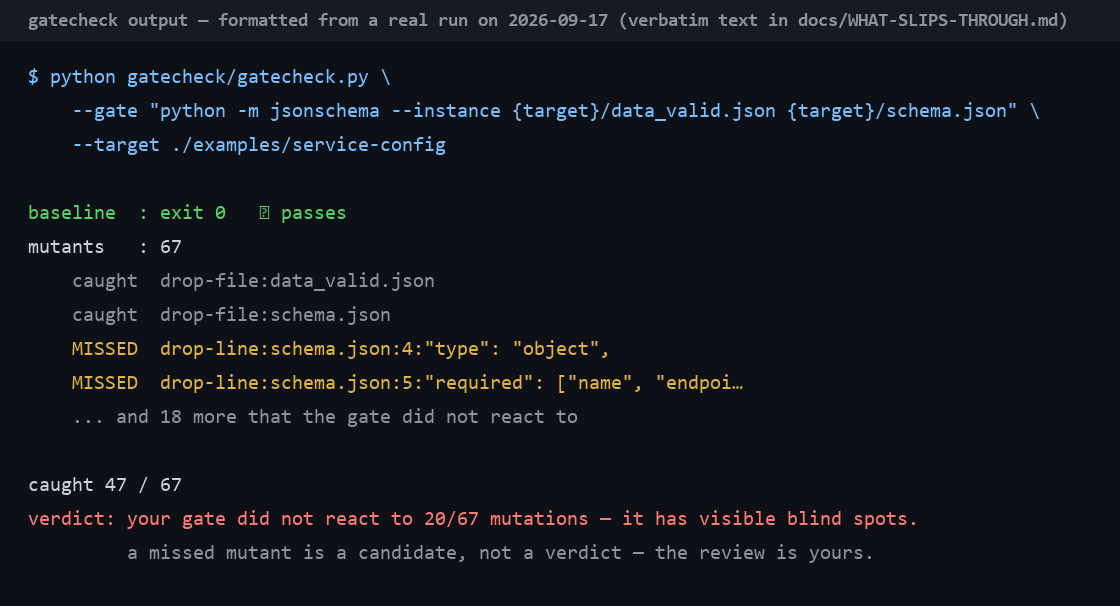
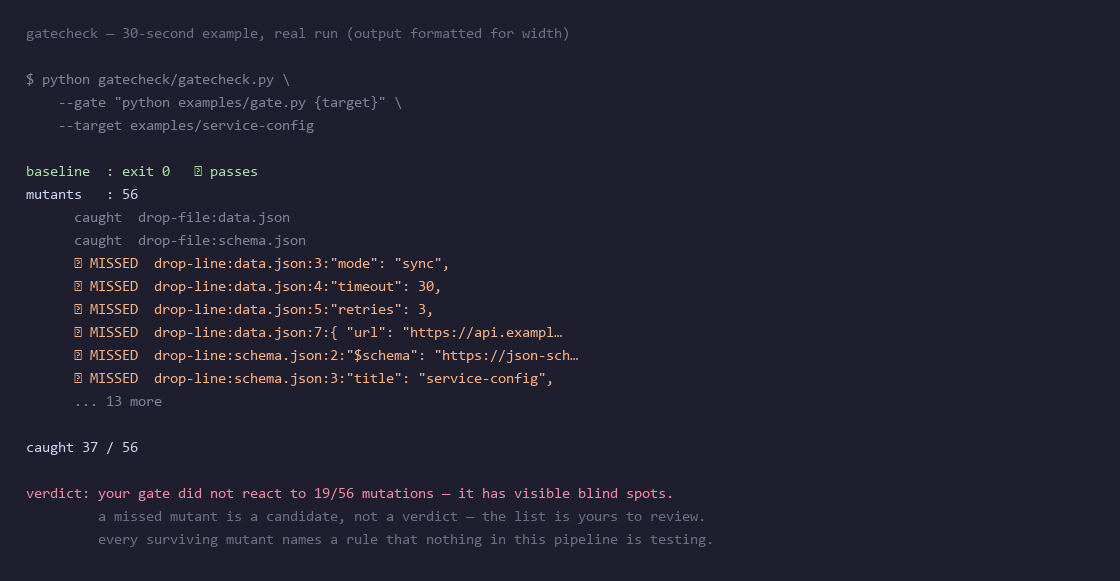
reframe: lead with 'your gate can silently lose a rule'; examples instead of findings; 30-second zero-install example

diff --git a/examples/gate.py b/examples/gate.py
@@ -1,0 +1,86 @@
+#!/usr/bin/env python3
+# -*- coding: utf-8 -*-
+"""The gate used in README's 30-second example.
+
+A small validator that understands the subset of JSON Schema that
+schema.json uses, so the example needs nothing installed.
+
+    python gate.py <target-dir>      # exit 0 = accept, exit 1 = reject
+
+Replace it with your own gate: a linter, a CI step, a policy check, an LLM
+guardrail — anything that exits non-zero to mean "reject".
+"""
+import json
+import sys
+from pathlib import Path
+
+TYPES = {"string": str, "integer": int, "number": (int, float),
+         "boolean": bool, "array": list, "object": dict}
+
+
+def check(schema, value, path="$"):
+    """Return an error string, or None if the value satisfies the schema."""
+    if not isinstance(schema, dict):
+        return "%s: the schema for this value is not an object" % path
+
+    t = schema.get("type")
+    if t is not None:
+        py = TYPES.get(t)
+        if py is None:
+            return "%s: schema declares an unknown type %r" % (path, t)
+        if isinstance(value, bool) and t != "boolean":
+            return "%s: expected %s, got boolean" % (path, t)
+        if not isinstance(value, py):
+            return "%s: expected %s, got %s" % (path, t, type(value).__name__)
+
+    if "enum" in schema and value not in schema["enum"]:
+        return "%s: %r is not one of %s" % (path, value, schema["enum"])
+    if "minLength" in schema and isinstance(value, str) and len(value) < schema["minLength"]:
+        return "%s: shorter than minLength %d" % (path, schema["minLength"])
+    if isinstance(value, (int, float)) and not isinstance(value, bool):
+        if "minimum" in schema and value < schema["minimum"]:
+            return "%s: %r is below minimum %s" % (path, value, schema["minimum"])
+        if "maximum" in schema and value > schema["maximum"]:
+            return "%s: %r is above maximum %s" % (path, value, schema["maximum"])
+    if "minItems" in schema and isinstance(value, list) and len(value) < schema["minItems"]:
+        return "%s: fewer than minItems %d" % (path, schema["minItems"])
+
+    if isinstance(value, dict):
+        for key in schema.get("required", []):
+            if key not in value:
+                return "%s: missing required property %r" % (path, key)
+        for key, sub in schema.get("properties", {}).items():
+            if key in value:
+                err = check(sub, value[key], "%s.%s" % (path, key))
+                if err:
+                    return err
+
+    if "items" in schema and isinstance(value, list):
+        for i, item in enumerate(value):
+            err = check(schema["items"], item, "%s[%d]" % (path, i))
+            if err:
+                return err
+
+    return None
+
+
+def main() -> int:
+    target = Path(sys.argv[1]) if len(sys.argv) > 1 else Path(".")
+    try:
+        schema = json.loads((target / "schema.json").read_text(encoding="utf-8"))
+        data = json.loads((target / "data.json").read_text(encoding="utf-8"))
+    except Exception as exc:  # an unreadable config counts as a rejection
+        print("REJECT: cannot read the config: %s: %s" % (type(exc).__name__, exc))
+        return 1
+
+    err = check(schema, data)
+    if err:
+        print("REJECT: %s" % err)
+        return 1
+
+    print("PASS: data.json satisfies schema.json")
+    return 0
+
+
+if __name__ == "__main__":
+    sys.exit(main())

diff --git a/README.md b/README.md
@@ -1,43 +1,44 @@
 # gatecheck
 
-**Does your quality gate actually reject anything?**
+**Your gate can silently lose a rule and CI stays green. gatecheck finds the rules nothing is actually testing.**
 
-Give it two things: a gate command (anything that exits non-zero to mean *reject*) and a
-baseline input that currently passes. It mutates the input N ways, **re-runs your gate once
-per mutant**, and reports which edits the gate caught and which it let through.
+Point it at your own rules — a JSON Schema, a CI check, a lint or policy config, an LLM
+guardrail — together with the command that is supposed to reject bad input. gatecheck
+deletes and corrupts one line at a time, re-runs that command for every edit, and reports
+the edits it did not react to. Each survivor names a rule that nothing in your pipeline is
+testing.
 
-**Result, from the experiment in [`docs/WHAT-SLIPS-THROUGH.md`](docs/WHAT-SLIPS-THROUGH.md):**
-deleting **one line** turned four popular validators into no-ops against input they had
-just rejected — `jsonschema`, `check-jsonschema` and `ajv` (one line out of a JSON Schema)
-and `guardrails-ai` (one line out of an LLM output guard's rule list). All four exited `0`.
-None of them is buggy; all four behaved exactly as specified. The check went silent, and
-green is green.
+**30 seconds, nothing to install:**
 
 ```bash
 git clone https://github.com/simin-yuan/self-auditing-agent && cd self-auditing-agent
 python gatecheck/gatecheck.py \
-  --gate "python my_validator.py {target}" \
-  --target ./my-data
+  --gate "python examples/gate.py {target}" \
+  --target examples/service-config
 ```
 
 ![gatecheck output](docs/img/gatecheck-output.png)
 
-Any command that returns non-zero to mean "reject" works as the gate — a linter, a CI step,
-a schema validator. **Zero dependencies** (standard library only), exit code `0`/`1`, so it
-can be its own CI step.
+Keep your gate command outside `--target` — otherwise gatecheck will point the mutations at
+the gate itself.
 
-> **It does not give you a verdict. It gives you a list.** Of the 20 mutants that slipped
-> past the gate above, **2** actually disarm it and 18 are harmless. A tool that shouted
-> "20 defects!" would be lying, and you would stop believing it the second time you checked.
-> Full triage in [`docs/WHAT-SLIPS-THROUGH.md`](docs/WHAT-SLIPS-THROUGH.md).
+Any command that exits non-zero to mean "reject" works as the gate — a linter, a CI step, a
+schema validator, your own `validate.py`. **Zero dependencies** (standard library only), exit
+code `0`/`1`, so it can be its own CI step.
+
+> **It does not give you a verdict. It gives you a list.** A surviving mutant is a candidate,
+> not a defect: in the run above most of the survivors are harmless (deleting a `title`,
+> deleting an optional property). A tool that shouted "19 defects!" would be lying to you,
+> and you would stop believing it the second time you checked.
 
 **Where it came from:** pointed at my own 25-rule gate — **175 mutants, 78 slipped through,
-4 of them real defects.** The worst: a rule whose trigger condition was supplied by the party
-being inspected, so deleting four words bypassed it. *A check that only applies once you admit
-guilt is not a check.* Diagnosis, including the four I have **not** fixed: [docs/BLIND-SPOTS.md](docs/BLIND-SPOTS.md).
+4 of them real defects.** The worst one is a real design defect, not a simulated one: a rule
+whose trigger condition is supplied by the party being inspected — *"if you declare yourself
+non-interactive, you must be registered"* — so deleting the declaration removes the
+requirement. *A check that only applies once you admit guilt is not a check.* All four are
+documented, including the ones I have **not** fixed: [docs/BLIND-SPOTS.md](docs/BLIND-SPOTS.md).
 
-**中文**：# gatecheck — **你的门禁真的会拦吗？** 给它一个门禁命令和一份合法输入，
-它自动变异输入、逐个撞门禁，报告漏在哪。**它不给你判决，它给你清单。** 零依赖、退出码 0/1、可直接进 CI。
+**中文**：# gatecheck — **你的门禁可能已经悄悄少了一条规则，而 CI 还是绿的。** 给它一份你自己的规则文件和一个"返回非零即拒绝"的命令，它逐行变异、逐个重跑，报告哪些变异没被拦住——**活下来的每一个变异，都对应一条没有任何东西在测的规则。** 零依赖、退出码 0/1、可直接进 CI。
 
 ---
 
@@ -82,24 +83,39 @@ The strongest part is what happened when I pointed the tooling at my own gate: *
 <details>
 <summary><b>中文版 — gatecheck + 一个会自我审计的 AI（点开）</b></summary>
 
-# gatecheck：你的门禁真的会拦吗？
+# gatecheck：你的门禁可能已经悄悄少了一条规则，而 CI 还是绿的
 
-**给它一个门禁命令 + 一份合法输入，它把输入变异 N 种，逐个重跑你的门禁，报告哪些变异被拦住、哪些漏过了。**
+**gatecheck 找出那些"没有任何东西在测"的规则。**
 
-**结果**（完整复现见 [docs/WHAT-SLIPS-THROUGH.md](docs/WHAT-SLIPS-THROUGH.md)）：**删掉一行**，四个流行校验器就都对刚刚还被拒绝的输入放行了——`jsonschema`、`check-jsonschema`、`ajv`（删的是 JSON Schema 里的一行约束），以及 `guardrails-ai`（删的是 LLM 输出门禁规则列表里的一行）。四个退出码全是 0，没有一句提示。四个工具都没 bug，行为全部符合规范——**是检查本身静默了，而绿的就是绿的**。
+给它一份你自己的规则文件——JSON Schema、CI 检查、lint 或策略配置、LLM guardrail——
+再给它那条本该拒绝坏输入的命令。它逐行删改你的规则文件，每改一次就重跑一次那条命令，
+报告哪些改动它**没有反应**。每一个活下来的变异，都对应一条没有任何东西在测的规则。
+
+**30 秒跑完，不需要装任何东西：**
 
 ```bash
 git clone https://github.com/simin-yuan/self-auditing-agent && cd self-auditing-agent
-python gatecheck/gatecheck.py --gate "python my_validator.py {target}" --target ./my-data
+python gatecheck/gatecheck.py \
+  --gate "python examples/gate.py {target}" \
+  --target examples/service-config
 ```
 
 ![gatecheck 输出](docs/img/gatecheck-output.png)
 
-零依赖（只用 Python 标准库），退出码 0/1，可以直接当一个 CI 步骤。
+门禁命令要放在 `--target` 外面，否则 gatecheck 会把变异打在门禁自己身上。
 
-> **它不给你判决，它给你清单。** 上面那次运行漏过 20 个变异，逐条复查后**只有 2 个真的把门禁拆了**，另外 18 个无害。谁要是喊"发现 20 个缺陷"，第二次你就不会再信它了。
+任何"返回非零即拒绝"的命令都能当门禁——linter、CI 步骤、schema 校验、你自己写的
+`validate.py`。零依赖（只用 Python 标准库），退出码 0/1，可以直接当一个 CI 步骤。
 
-来历：拿它撞**我自己**的 25 条规则门禁 —— **175 个变异，漏过 78 个，其中 4 类是真缺陷**。最狠的一条：规则的触发条件由被检方自己提供，**删掉四个字就能绕过全部检查**。
+> **它不给你判决，它给你清单。** 活下来的变异是候选不是缺陷：上面那次运行里，
+> 大部分漏过是无害的（比如删掉 `title`、删掉可选字段）。谁要是喊"发现 19 个缺陷"，
+> 第二次你就不会再信它了。
+
+来历：拿它撞**我自己**的 25 条规则门禁 —— **175 个变异，漏过 78 个，其中 4 类是真缺陷**。
+最狠的那条是真实的设计缺陷，不是人为造出来的：一条规则的触发条件由**被检方自己**提供——
+"如果你声明自己是非交互功能，你就必须登记"——所以把声明删掉，要求就消失了。
+**一个只在你自认有罪时才生效的检查，等于没有检查。** 四条都记录在案，包括**我一条都还没修**的部分：
+[docs/BLIND-SPOTS.md](docs/BLIND-SPOTS.md)。
 
 ---
 

diff --git a/docs/USAGE-EXAMPLES.md b/docs/USAGE-EXAMPLES.md
@@ -1,23 +1,28 @@
-# What slips through: four popular validators, one deleted line
+# Usage examples: what gatecheck prints on four kinds of rule file
 
-This is the raw material behind gatecheck's claim. It is not a bug report against
-`jsonschema`, `check-jsonschema`, `ajv` or `guardrails-ai` — all four behaved exactly
-as specified. It is a demonstration of the failure that sits **one level above** them.
+gatecheck is meant to be run on **your own** rules. These four examples show what its output
+looks like — and, just as important, what the triage step does to a raw candidate list before
+anyone calls anything a defect.
+
+What they do **not** say: that any of these projects is unsafe. Every rule file below was
+written for the example, the deleted line was deleted on purpose, and all four tools behaved
+exactly as specified. The observation is narrower: **when a rule line disappears from a rule
+file, nothing in the pipeline tells you.** That is the surface gatecheck exists to expose,
+and the reason to run it on your own rules instead of reading someone else's.
 
 Every command and every line of output below was run on 2026-09-17 and is reproduced
-verbatim. The fixtures are in [`repro/gate-bypass/`](../repro/gate-bypass/) — copy them, run them, disagree with me.
+verbatim. The fixtures are in [`repro/examples/`](../repro/examples/) — copy them, run them, disagree with me.
 
-## Method
+## The shape of the demonstration
 
-Three JSON Schema validators, the same schema, the same data, the same three steps:
+The same three steps on each rule file:
 
-1. original schema + valid data → the gate must pass
-2. original schema + invalid data (`"timeout": "30"` — a string where the schema requires an integer) → the gate must reject
-3. **the schema with one line deleted** (`"type": "integer"`) + the same invalid data → ?
+1. rule file as written + valid input → the gate must pass
+2. rule file as written + input that violates it (`"timeout": "30"` — a string where an integer is required) → the gate must reject
+3. **the rule file with one line deleted** (`"type": "integer"`) + the same invalid input → ?
 
-Step 3 is the whole experiment. Nobody edits a schema by accident in a code review
-that is watched by a human; they edit it in a hurry, and the CI is green afterwards
-either way.
+Step 3 is the one that matters. Nobody deletes a schema line during a change anyone
+reviews closely; they do it in a hurry, and CI is green either way.
 
 ## 1. jsonschema (Python, draft 2020-12 reference implementation)
 
@@ -86,9 +91,9 @@ break. **It got narrower by exactly one rule, and nothing outside can tell the
 difference** — no error, no warning, no change in exit code. The rule did not fail;
 it stopped existing.
 
-## What the mutation run found, and what it did not
+## Triage: what the tool prints vs. what survives review
 
-Running [gatecheck](../gatecheck/) over the same four setups (67–109 mutants each,
+Running [gatecheck](../gatecheck/) over these four rule files (67–109 mutants each,
 one gate invocation per mutant):
 
 | target | mutants | caught | escaped | escaped that actually disarm the gate |
@@ -131,10 +136,10 @@ judgement.
 ## Reproduce
 
 ```bash
-cd repro/gate-bypass/01-jsonschema && sh run.sh     # jsonschema
-cd repro/gate-bypass/02-check-jsonschema && sh run.sh
-cd repro/gate-bypass/03-ajv && sh run.sh
-cd repro/gate-bypass/04-guardrails && sh run.sh      # needs: pip install guardrails-ai
+cd repro/examples/01-jsonschema && sh run.sh     # jsonschema
+cd repro/examples/02-check-jsonschema && sh run.sh
+cd repro/examples/03-ajv && sh run.sh
+cd repro/examples/04-guardrails && sh run.sh      # needs: pip install guardrails-ai
 ```
 
 `observed_output.txt` holds the raw transcript of the first three runs. The
